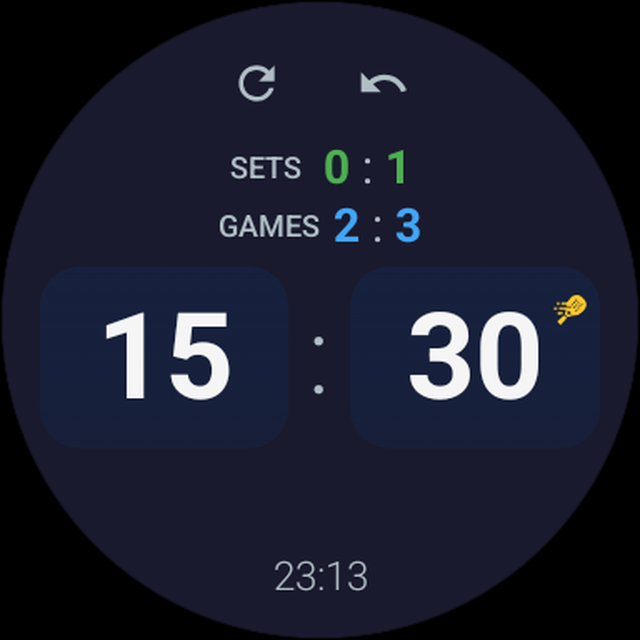
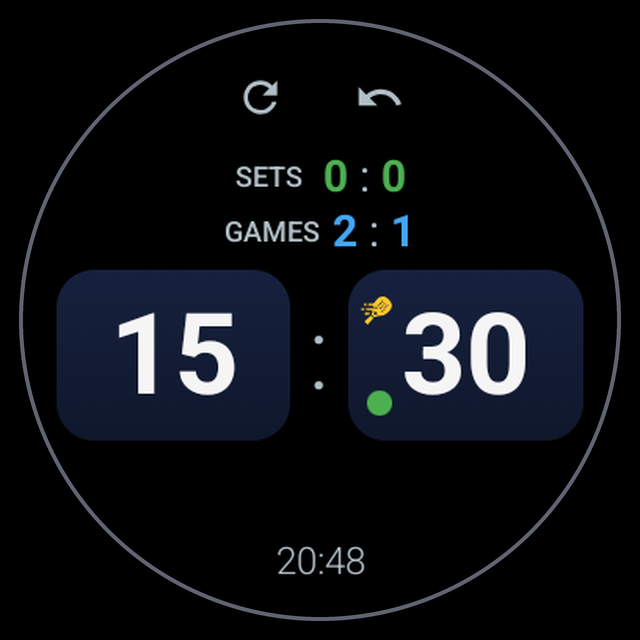
chore: regenerate store screenshots and feature graphic for the black UI
The listing assets still showed the old dark navy background, which would
contradict the build now that the app renders pure black, and Play's rejection
notice asked for every part of the app to be checked.

Recaptures all screenshots from the current build on the Wear_OS_Small_Round
emulator, showing the new serve display: amber icon for the service box and
green dot for the serving player.

Play (640x640): serve, scoreboard, scoreboard-ad, plus new tiebreak and
change-sides captures. Website-sized copies (500x500): who-serves,
score-board, score-board-with-ad.

Because the app background is now black, a plain round render would be black
on black and the watch shape would disappear, so each screenshot gets a subtle
grey bezel ring.

Rebuilds the feature graphic via resources/make_banner.py rather than patching
the old PNG: the watch circle overlaps the wordmark, so pasting a new face over
the flattened image covered the text. The script refits the background
gradient, reuses the original icon, redraws the type in Roboto and composites
the new watch face, with feature-graphic-base.png kept as the pristine source.

diff --git a/resources/make_banner.py b/resources/make_banner.py
@@ -1,0 +1,105 @@
+"""Regenerates the Play Store / website feature graphic for PadelCompanion.
+
+Rebuilds the 1024x500 banner from its parts rather than patching the old PNG:
+the watch face circle overlaps the wordmark, so pasting a new face over the
+flattened image would cover the text.
+
+Layout values were measured off the original graphic so the result lines up
+with it: icon at (100,170) 160x160, wordmark ink starting at (304,219),
+tagline at (301,274), watch circle centred on (784.5,250) with an outer
+radius of 168 and an 8px bezel.
+
+Usage:  python resources/make_banner.py <watch-screenshot.png>
+"""
+import sys
+import numpy as np
+from PIL import Image, ImageDraw, ImageFont
+
+# Pristine source for the background gradient and app icon. Kept separate
+# so repeat runs do not compound on their own output.
+ORIGINAL = 'resources/feature-graphic-base.png'
+OUT = 'resources/feature-graphic.png'
+ROBOTO = ('C:/Program Files/Android/Android Studio/plugins/design-tools/'
+          'resources/layoutlib/data/fonts/Roboto-Regular.ttf')
+
+W, H = 1024, 500
+ICON_BOX = (100, 170, 160)          # left, top, size
+HEADLINE = ('PadelCompanion', 304, 219, 364, (245, 245, 245))
+TAGLINE = ('Score tracker for your wrist', 301, 274, 258, (203, 209, 219))
+CX, CY, R_OUT, RING_W = 784.5, 250.0, 168, 8
+RING = (106, 108, 121)
+SS = 4
+
+
+def fitted_background(src):
+    """Reproduces the smooth navy gradient with a per-channel quadratic fit."""
+    a = np.asarray(src).astype(float)
+    yy, xx = np.mgrid[0:H, 0:W]
+    # Keep only areas that are plain background in the original.
+    bg = ((xx < 90) | (yy < 60) | (yy > 440) | (xx > 960))
+    basis = lambda x, y: np.stack(
+        [np.ones_like(x), x, y, x * x, x * y, y * y], axis=-1)
+    A = basis(xx[bg] / W, yy[bg] / H)
+    full = basis(xx / W, yy / H)
+    out = np.zeros((H, W, 3))
+    for c in range(3):
+        coef, *_ = np.linalg.lstsq(A, a[bg][:, c], rcond=None)
+        out[:, :, c] = full @ coef
+    return Image.fromarray(np.clip(out, 0, 255).astype('uint8'))
+
+
+def fit_font(text, target_w):
+    """Picks the Roboto size whose rendered ink width matches the original."""
+    best, best_err = 10, 1e9
+    for size in range(10, 120):
+        f = ImageFont.truetype(ROBOTO, size)
+        box = f.getbbox(text)
+        err = abs((box[2] - box[0]) - target_w)
+        if err < best_err:
+            best, best_err = size, err
+    return ImageFont.truetype(ROBOTO, best)
+
+
+def draw_text(canvas, spec):
+    text, left, top, target_w, colour = spec
+    font = fit_font(text, target_w)
+    box = font.getbbox(text)
+    ImageDraw.Draw(canvas).text((left - box[0], top - box[1]), text,
+                                font=font, fill=colour)
+
+
+def watch(canvas, shot_path):
+    inner = int(R_OUT - RING_W / 2) * 2
+    face = Image.open(shot_path).convert('RGB').resize((inner, inner), Image.LANCZOS)
+    mask = Image.new('L', (inner * SS, inner * SS), 0)
+    ImageDraw.Draw(mask).ellipse((0, 0, inner * SS - 1, inner * SS - 1), fill=255)
+    mask = mask.resize((inner, inner), Image.LANCZOS)
+    canvas.paste(face, (int(CX - inner / 2), int(CY - inner / 2)), mask)
+
+    ring = Image.new('RGBA', (W * SS, H * SS), (0, 0, 0, 0))
+    ImageDraw.Draw(ring).ellipse(
+        ((CX - R_OUT) * SS, (CY - R_OUT) * SS,
+         (CX + R_OUT) * SS, (CY + R_OUT) * SS),
+        outline=RING + (255,), width=RING_W * SS)
+    ring = ring.resize((W, H), Image.LANCZOS)
+    return Image.alpha_composite(canvas.convert('RGBA'), ring).convert('RGB')
+
+
+def main(shot_path):
+    original = Image.open(ORIGINAL).convert('RGB')
+    canvas = fitted_background(original)
+
+    left, top, size = ICON_BOX
+    canvas.paste(original.crop((left, top, left + size, top + size)), (left, top))
+
+    # The circle overlaps the wordmark, so the watch goes down first and the
+    # text is drawn over it, as in the original graphic.
+    canvas = watch(canvas, shot_path)
+    draw_text(canvas, HEADLINE)
+    draw_text(canvas, TAGLINE)
+    canvas.save(OUT)
+    print('wrote', OUT, canvas.size)
+
+
+if __name__ == '__main__':
+    main(sys.argv[1])
